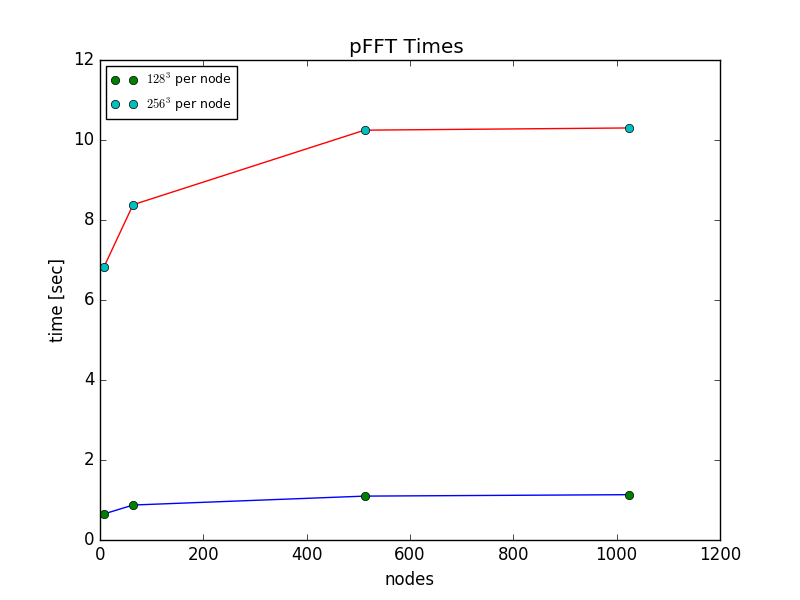
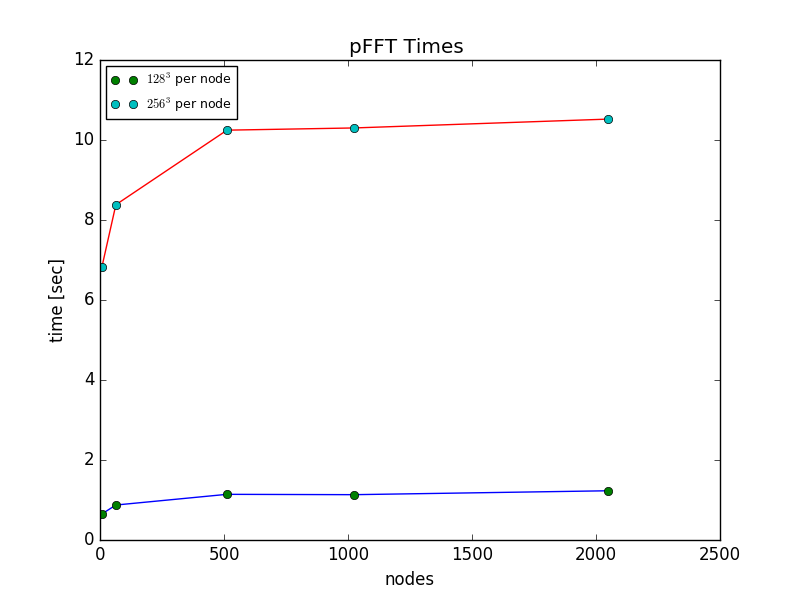
added cholla timig

diff --git a/_posts/2017-03-29-3D-FFT-timig.md b/_posts/2017-03-29-3D-FFT-timig.md
@@ -4,8 +4,19 @@ title:  "Timing: 3D FFT in TITAN"
 date:   2017-03-29 17:10:24 -0800
 categories: self-gravity
 ---
-Timing for a 3D FFT
+
+**Timing for Cholla performance**  ( averaged over 10 steps )
+
+<img src="{{ site.url }}assets/times_cholla.png">
+
+
+**Timing for a 3D FFT** ( averaged over 10 FFTs)
 
 <img src="{{ site.url }}assets/times_pfft.png">
+
+ 
+
+
+
 
 <img src="{{ site.url }}assets/times.png">
